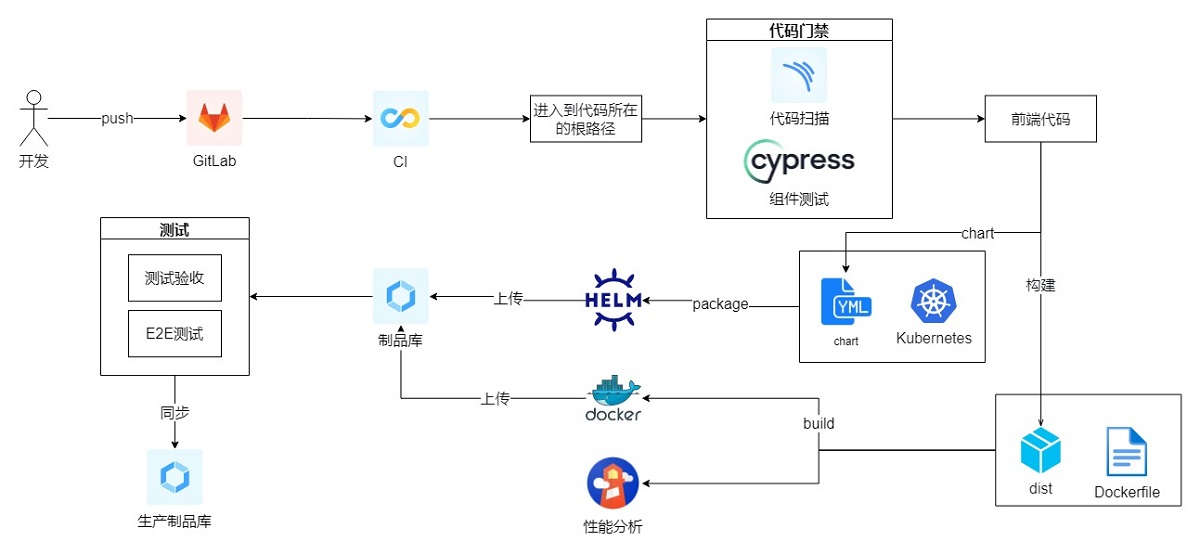
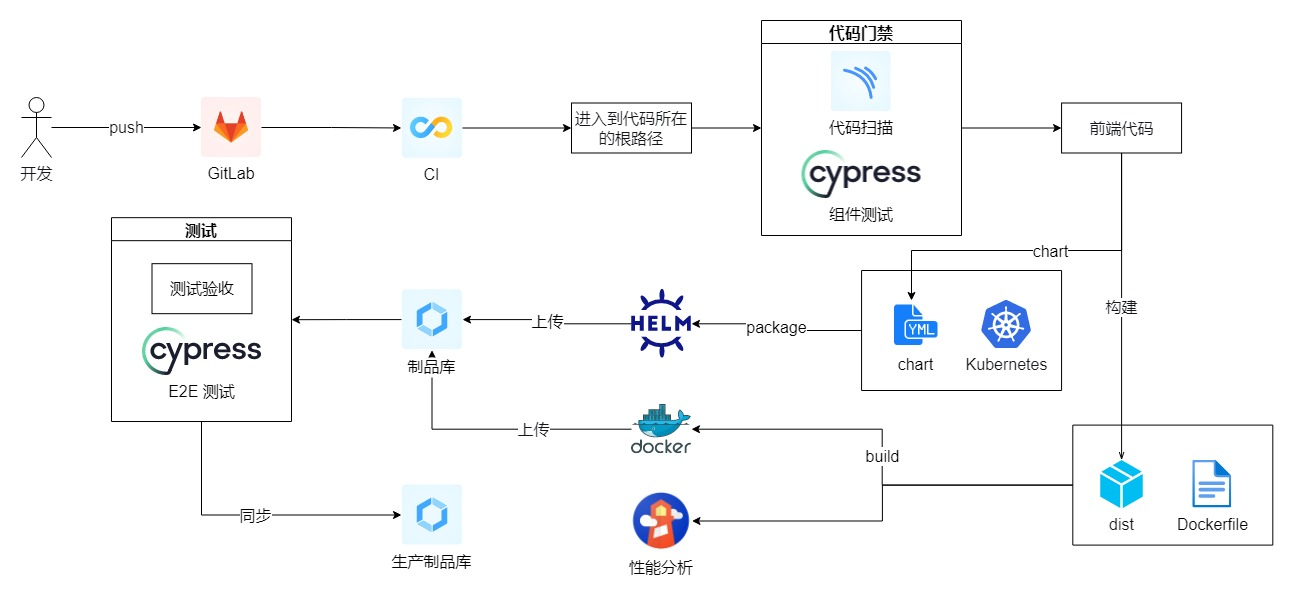
update: 持续部署内容

diff --git a/2022/大型 toB 项目基建实战/持续交付.md b/2022/大型 toB 项目基建实战/持续交付.md
@@ -4,7 +4,7 @@
 
 ## 背景
 
-最初是**瀑布模型**，后来是**敏捷开发**，现在是**DevOps**，这是现代开发人员构建出色的产品的技术路线。随着DevOps的兴起，出现了**持续集成（Continuous Integration）**、**持续交付（Continuous Delivery）** 、**持续部署（Continuous Deployment）** 的新方法。传统的软件开发和交付方法正在迅速变得过时。从历史上看，在敏捷时代，大多数公司会每月，每季度，每两年甚至每年发布部署/发布软件。现如今，在DevOps时代，每周，每天，甚至每天多次是常态。当PaaS正在占领世界时，尤其如此，您可以轻松地动态更新应用程序，而无需强迫客户下载新组件。
+最初是**瀑布模型**，后来是**敏捷开发**，现在是 **DevOps**，这是现代开发人员构建出色的产品的技术路线。随着 DevOps 的兴起，出现了**持续集成（Continuous Integration）**、**持续交付（Continuous Delivery）** 、**持续部署（Continuous Deployment）** 的新方法。传统的软件开发和交付方法正在迅速变得过时。从历史上看，在敏捷时代，大多数公司会每月，每季度，每两年甚至每年发布部署/发布软件。现如今，在 DevOps 时代，每周，每天，甚至每天多次是常态。当 `PaaS` 正在占领世界时，尤其如此，您可以轻松地动态更新应用程序，而无需强迫客户下载新组件。
 
 **持续集成（CI）**的重点是将各个开发人员的工作集合到一个代码仓库中。通常，每天都要进行几次，主要目的是尽早发现集成错误，使团队更加紧密结合，更好地协作。
 **持续交付（CD）**的目的是最小化部署或释放过程中固有的摩擦。它的实现通常能够将构建部署的每个步骤自动化，以便任何时刻能够安全地完成代码发布（理想情况下）。
@@ -18,26 +18,58 @@
 
 在这个过程，虽然我们做到各个环节实现自动化：`gitlab` 上执行 `CI` 构建产物，通过 `shell` 脚本自动化上传产物到目标服务器并进行一个资源替换和备份；但是只要资源是存放在虚拟机上的某个目录下，就意味着容易修改。于是，我们经常遇到各种问题：
 
-1. 前端包的版本是多少
-2. 谁又手动去服务器上替换前端包了，怎么不走 `CI/CD` 流程
-3. 前端开发帮忙看看这个包版本是否为最新
+1. 前端包的版本是多少？
+2. 谁又手动去服务器上替换前端包了？
+3. 前端开发帮忙看看这个包版本是否为最新？
 4. ...
 
-于是，我们团队也想着将前端作为一个单独容器服务进行维护。
+于是，我们团队将前端代码也制作为一个镜像进行传递。如下图，是我们改造之后的完整持续集成和持续交付的流程图：
+
+![](./img/ci-dev.jpg)
+
+
+
+## 持续集成流程
+
+1. 开发将本地代码推送到 `GitLab`，触发代码门禁（代码扫描、单元测试）；
+2. 通过门禁后，将前端代码打包，获得一个 `platform.tar.gz` (包括`dist`、`Makefile`、`Dockerfile`、`chart`)；
+3. 获取 `version`、 `dist` 和 `Dockerfile`，进行构建镜像；
+4. 获取 `version`、`chart` 进行 helm 包构建；
+5. （可选）构建完之后，结合 `Lighthouse` 对每次的包进行一次性能分析。
 
 
 
 ## 持续交付流程
 
-1. 开发将本地代码推送到 `GitLab`，触发代码门禁（代码扫描、单元测试）；
-1. 通过门禁后，将前端代码打包，获得一个 `platform.tar.gz` (包括`dist`、`Makefile`、`Dockerfile`、`chart`)；
-2. 获取 `version`、 `dist` 和 `Dockerfile`，进行构建镜像，然后推送到远程仓库；
-2. 获取 `version`、`chart` 进行 helm 包构建，然后推送到远程仓库；
-2. （可选）构建完之后，结合 `Lighthouse` 对每次的包进行一次性能分析；
-3. 测试接收到新包的通知，进行一个包部署，验证功能；
-3. 最后发布
+1. 获取持续集成中的产物 `platform.tar.gz` ；
+2. 获取镜像 `platform`，然后推送到远程仓库；
+3. 获取 helm 包 `platform`，然后推送到远程仓库；
+3. 镜像和 helm 包成功推送到远程仓库之后，测试接收到新包的通知，进行一个包部署，验证功能；
+3. （可选）执行 E2E 自动化测试用例；
+3. 最后进行发布流程申请。
 
-![](./img/ci-dev.jpg)
+
+
+## 持续部署流程
+
+1. 转集成测试结束后，确认上线的镜像和 helm 包版本号 `version`（在上线的工单中需要填写）；
+1. 运维同事在持续部署平台上，一键执行升级流水线，等待执行完毕就是升级成功了。
+
+
+
+![](img/cd.jpg)
+
+## 线上监测
+
+
+
+![](./img/monitor.jpg)
+
+
+
+## 环境准备
+
+
 
 ### 制作前端编译环境镜像
 
@@ -111,6 +143,22 @@ RUN cd ${WEBUI_DIR} && \
 
 
 
+### 制作自动化测试镜像
+
+项目用的是 `Cypress`，所以这里直接使用它官网提供的镜像即可。
+
+```dockerfile
+FROM cypress/base:16.4.0
+
+# 安装 pnpm
+RUN npm install -g pnpm
+
+CMD echo  " node version: $(node -v) \n" \
+    "pnpm version: $(pnpm -v) \n"
+```
+
+
+
 ### Makefile 
 
 可能对于 `Makefile` 不太熟悉，这里稍微解释一下：`Makefile` 可以简单的认为是一个工程文件的编译规则，描述了整个工程的编译和链接等规则。像我们项目不仅要进行【代码构建】、【镜像构建】、【helm 制作】等很多操作。
@@ -161,7 +209,7 @@ build:
 
 #### 使用
 
-在 `Unix` 环境下，存在 `Makefile`  的当前目录执行
+在 `Unix` 环境下，存在 `Makefile`  下目录执行
 
 ```shell
 make build
@@ -171,7 +219,7 @@ make push_helm
 
 
 
-### 产物
+### 交付物
 
 我们在 `web-pipeline` 环境下进行一个打包，这个镜像中，我们之前已经安装过了 `git` 、`node`、`pnpm` 等工具了。当我们触发打包操作时，它会先执行前端的编译，接着再进行制作镜像上传，最后制作 helm 包上传。
 
@@ -227,8 +275,6 @@ make push_helm
 ```sh
 make lighthouse
 ```
-
-
 
 
 
